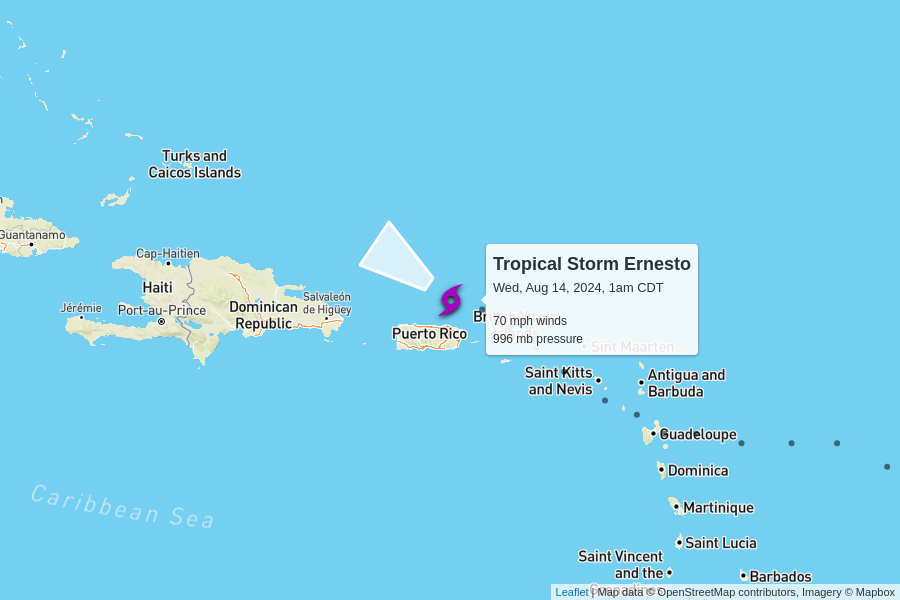
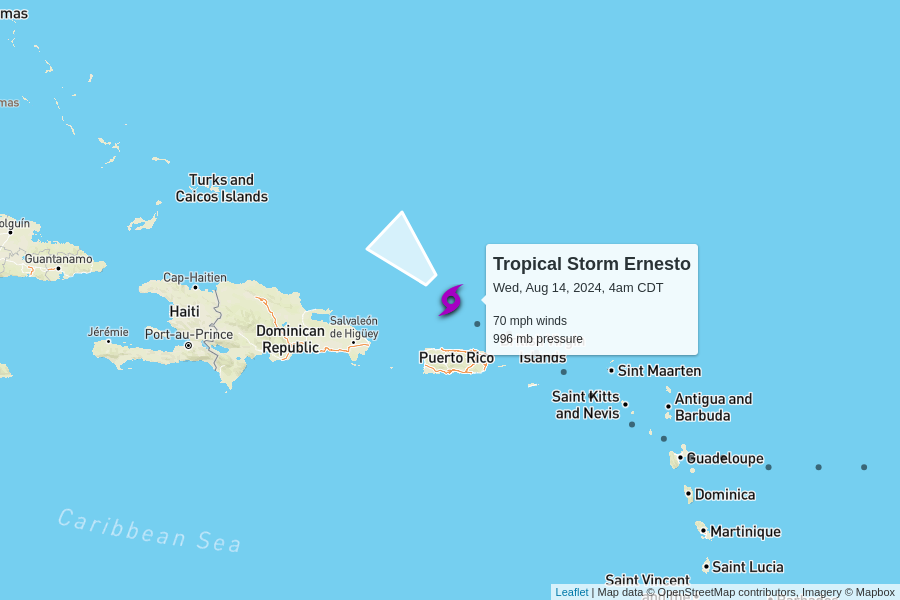
automatic update

diff --git a/docs/index.html b/docs/index.html
@@ -102,7 +102,7 @@
         <td colspan="6" class="storm category-0" >
           <h2>
             Tropical Storm Ernesto
-            <p class="updated">last updated <span data-time>2024-08-14T06:00:00.000Z</span></p>
+            <p class="updated">last updated <span data-time>2024-08-14T09:00:00.000Z</span></p>
           </h2>
         </td>
       </tr>
@@ -117,12 +117,12 @@
       </tr>
       <tr>
         <td class="spacer"></td>
-        <td>70 mph<br>+5 mph since last update</td>
-        <td>996 mb<br>-2 mb since last update</td>
+        <td>70 mph<br>0 mph since last update</td>
+        <td>996 mb<br>0 mb since last update</td>
         <td>
           16 mph to the northwest
           <br/>
-          <span style="display: inline-block; font-size: 1.5em; transform: rotate(305deg);">↑</span>
+          <span style="display: inline-block; font-size: 1.5em; transform: rotate(315deg);">↑</span>
         </td>
         <td><a href="https://raw.githubusercontent.com/mgwalker/atlantic-hurricanes/main/data/csv/AL052024.csv">AL052024.csv</a></td>
         <td><a href="https://www.nhc.noaa.gov/archive/2024/ERNESTO.shtml?">NHC advisories</a></td>
